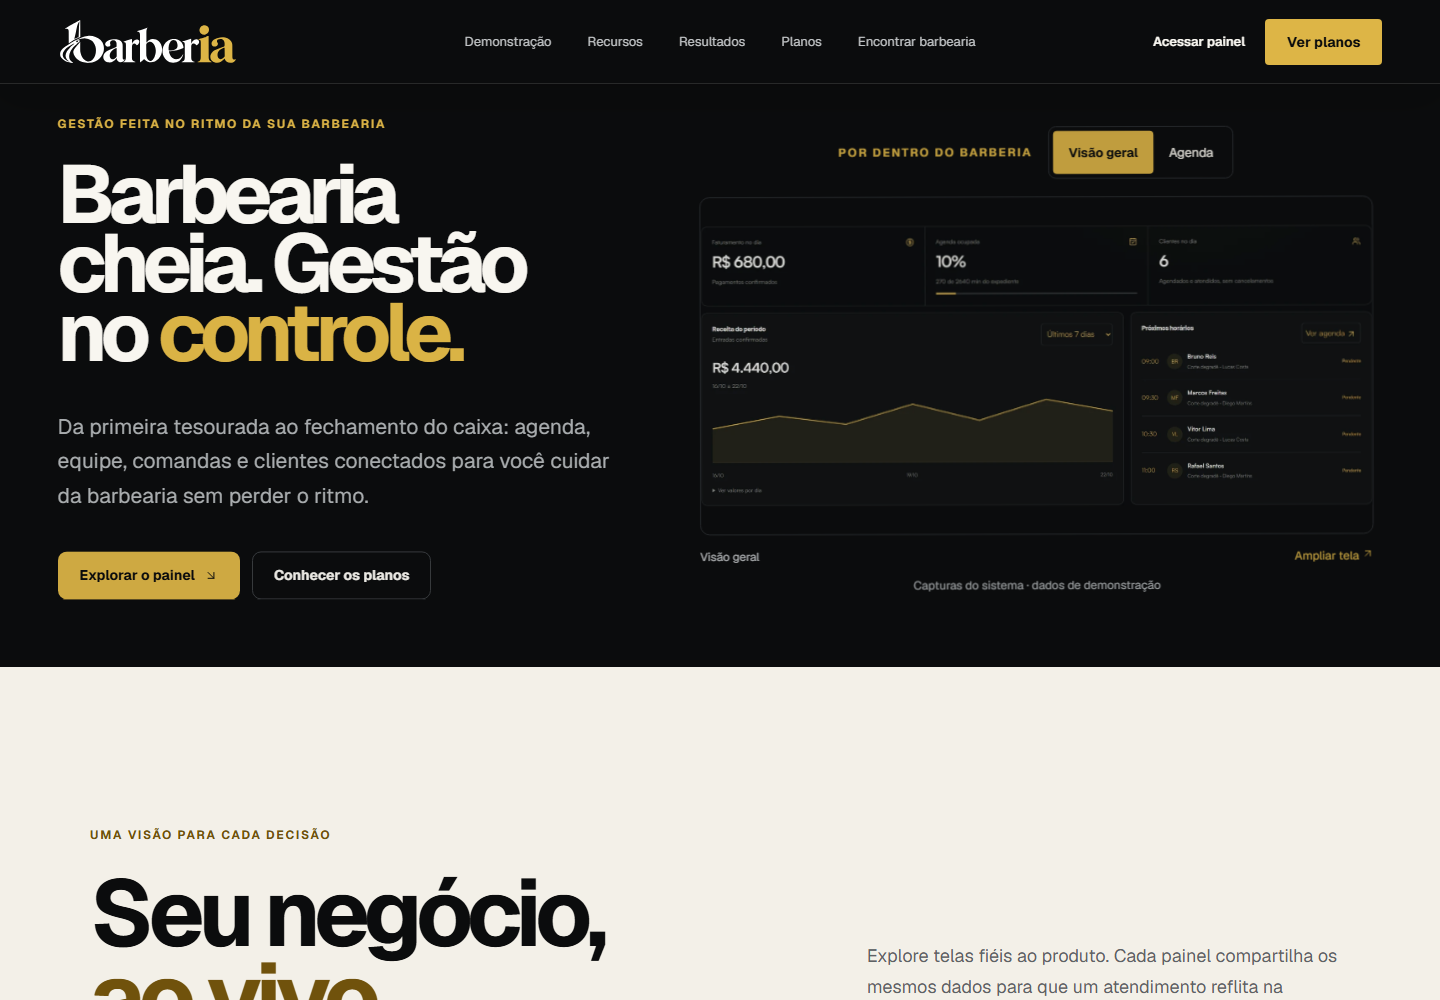
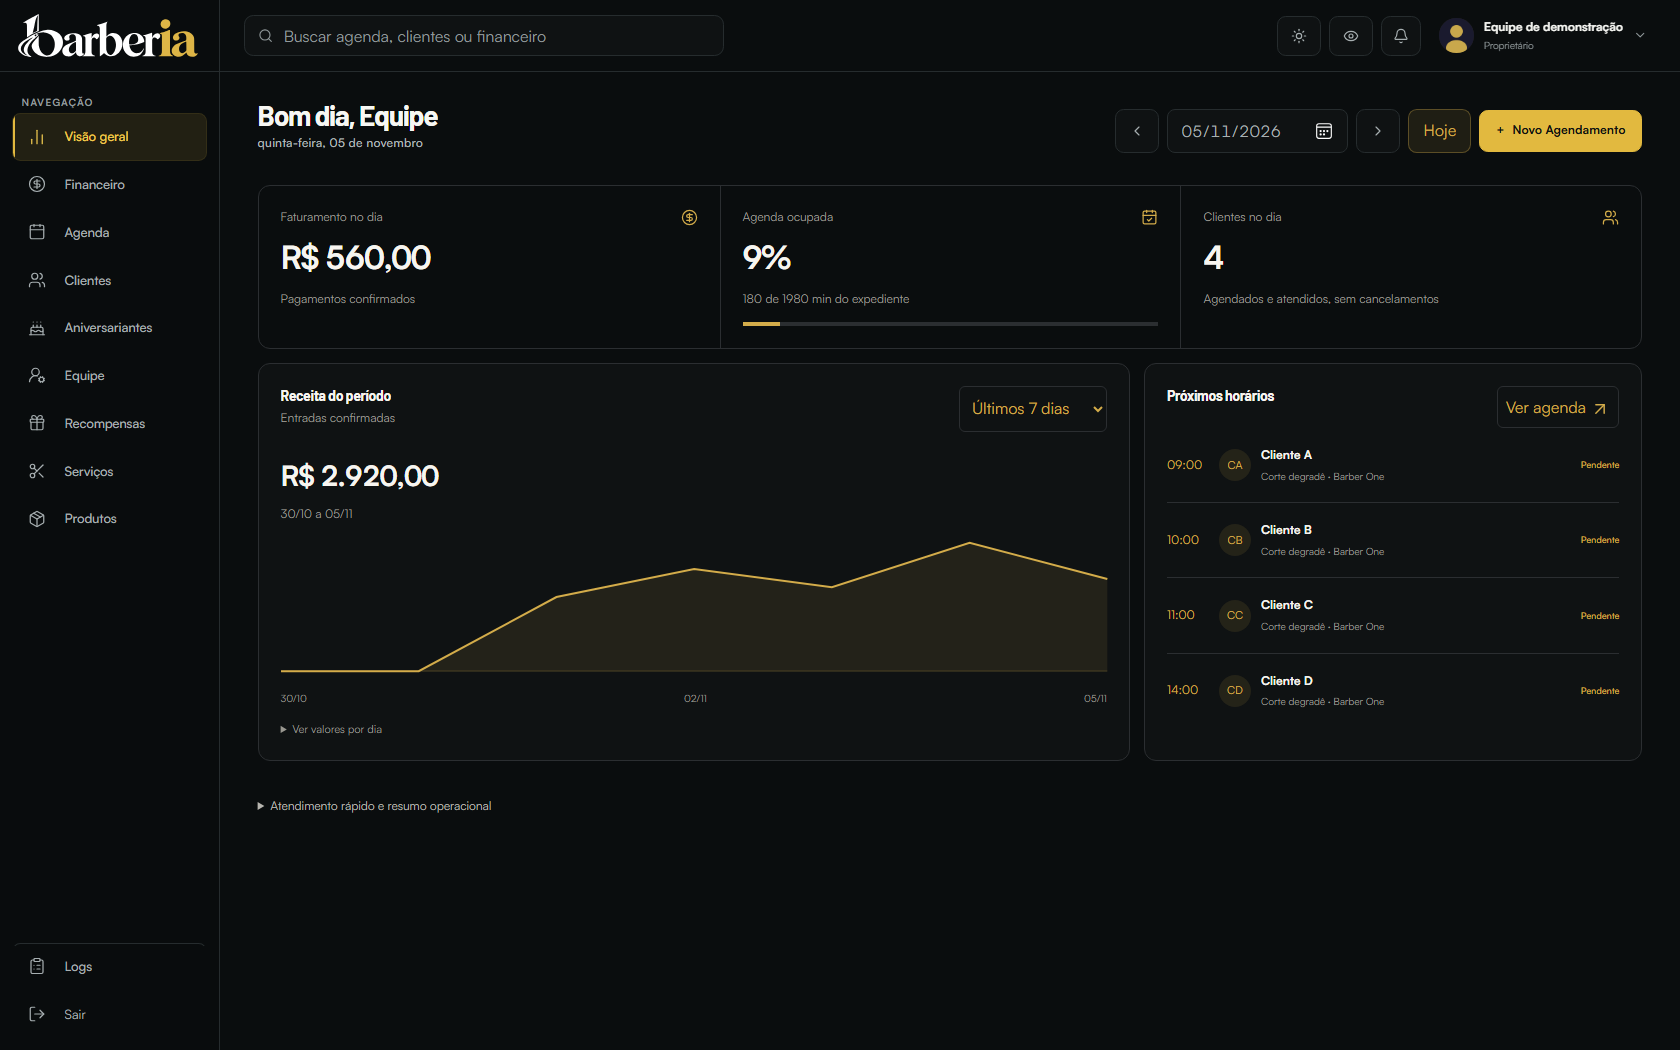
Mostra dashboards com dados fictícios e destaca HEYO

diff --git a/PROJETOS.md b/PROJETOS.md
@@ -8,9 +8,9 @@ Gestão de estoque, consignação, vendas e repasses para brechós e lojas. O tr
 
 TypeScript, React, Next.js, Prisma e SQLite.
 
-![Página pública do Estocador](assets/projects/estocador.png)
+![Dashboard do Estocador com dados fictícios](assets/projects/estocador.png)
 
-Captura da página pública, incluindo a demonstração com dados fictícios que o próprio site oferece.
+Componentes reais do painel e da navegação renderizados em ambiente local isolado, com respostas de API fictícias. Nenhuma conta, venda ou banco de produção foi usado.
 
 [Visitar o Estocador](https://estocador.clasure.com.br)
 
@@ -20,9 +20,9 @@ Sistema de gestão e agendamento para barbearias. Reúne agenda, serviços, prof
 
 Node.js, Express, EJS e SQLite.
 
-![Apresentação pública do barberIA](assets/projects/barberia.png)
+![Dashboard do barberIA com dados fictícios](assets/projects/barberia.png)
 
-A página pública mostra capturas do sistema com dados de demonstração.
+Aplicação real executada localmente com agenda, clientes e financeiro fictícios em banco de teste isolado.
 
 [Visitar o barberIA](https://barberia.clasure.com.br)
 
@@ -62,12 +62,12 @@ Aplicação interna de apoio ao recrutamento. Importa vagas e candidatos, organi
 
 Python, FastAPI, TypeScript, Next.js, SQLite e Docker.
 
-![Tela de acesso do IA Seleção](assets/projects/ia-selecao.png)
+![Dashboard do IA Seleção com dados fictícios](assets/projects/ia-selecao.png)
 
-Tela real de acesso, executada localmente. O projeto exige autorização; dados de candidatos, currículos e resultados de recrutamento não fazem parte desta apresentação pública.
+Frontend real do sistema executado localmente com empresa, vagas e contagens fictícias fornecidas por respostas de API de demonstração. Não foram usados currículos, resultados de triagem ou contas reais.
 
 ## Sobre as imagens
 
-Capturas feitas em novembro de 2026. As imagens dos sites foram obtidas em páginas públicas, sem acesso administrativo. As demonstrações não representam resultados comerciais nem dados de clientes. O código dos projetos apresentados aqui continua privado.
+Capturas feitas em novembro de 2026. As vitrines foram capturadas em páginas públicas. Os dashboards foram renderizados localmente com dados sintéticos, conforme descrito em cada projeto. As demonstrações não representam resultados comerciais nem dados de clientes. O código dos projetos apresentados aqui continua privado.
 
 [Voltar ao perfil](README.md)

diff --git a/README.md b/README.md
@@ -30,7 +30,7 @@ Aplicação para trabalhar com vagas, currículos e requisitos, usando IA para a
 
 `Python` · `TypeScript` · `APIs` · `Docker`
 
-Projeto de acesso restrito
+[Ver o painel com dados fictícios](PROJETOS.md#ia-seleção) · Projeto de acesso restrito
 
 ### barberIA - gestão e agendamento
 
@@ -39,6 +39,14 @@ Sistema para barbearias com agenda, serviços, atendimento e gestão financeira.
 `Node.js` · `Express` · `EJS` · `SQLite`
 
 [Conhecer o barberIA](https://barberia.clasure.com.br) · Código privado
+
+### HEYO - loja de roupas
+
+Loja de roupas oversized e fitness integrada ao Estocador. O catálogo mantém a ligação entre cada peça, suas opções de cor e tamanho e o estoque de origem; a loja reúne vitrine, contas de clientes e pedidos.
+
+`JavaScript` · `TypeScript` · `Node.js` · `SQLite`
+
+[Visitar a HEYO](https://useheyo.com.br) · [Ver a apresentação](PROJETOS.md#heyo) · Código privado
 
 ### Auto Bellini Veículos - vitrine e estoque
 
